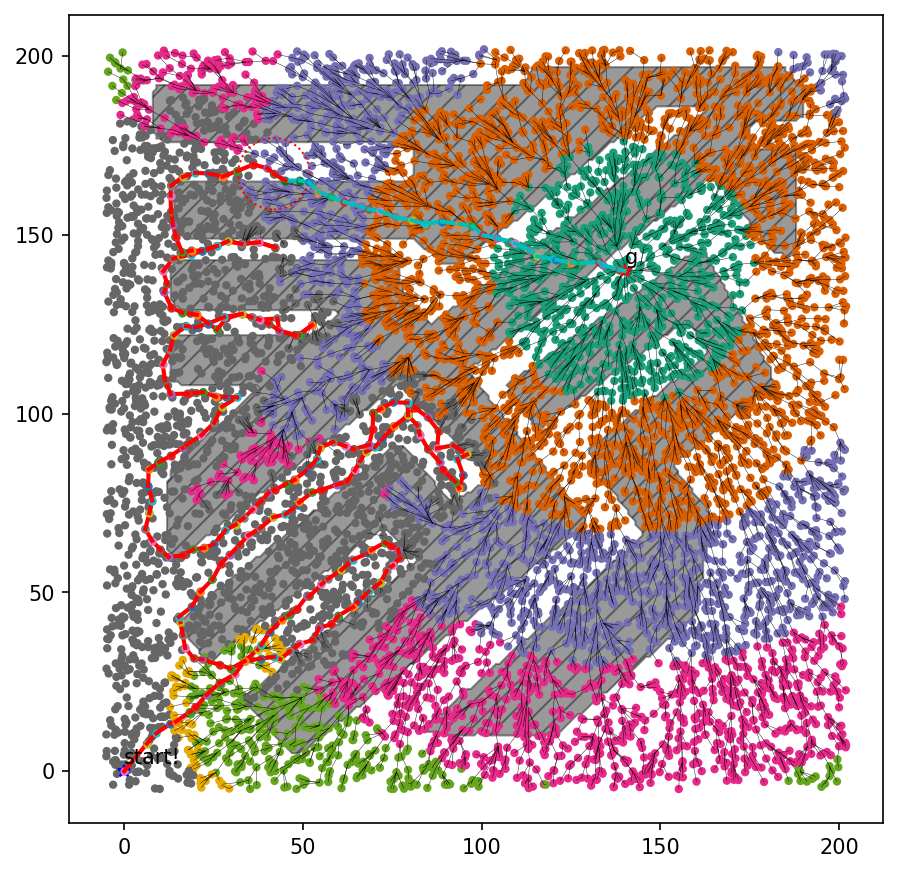
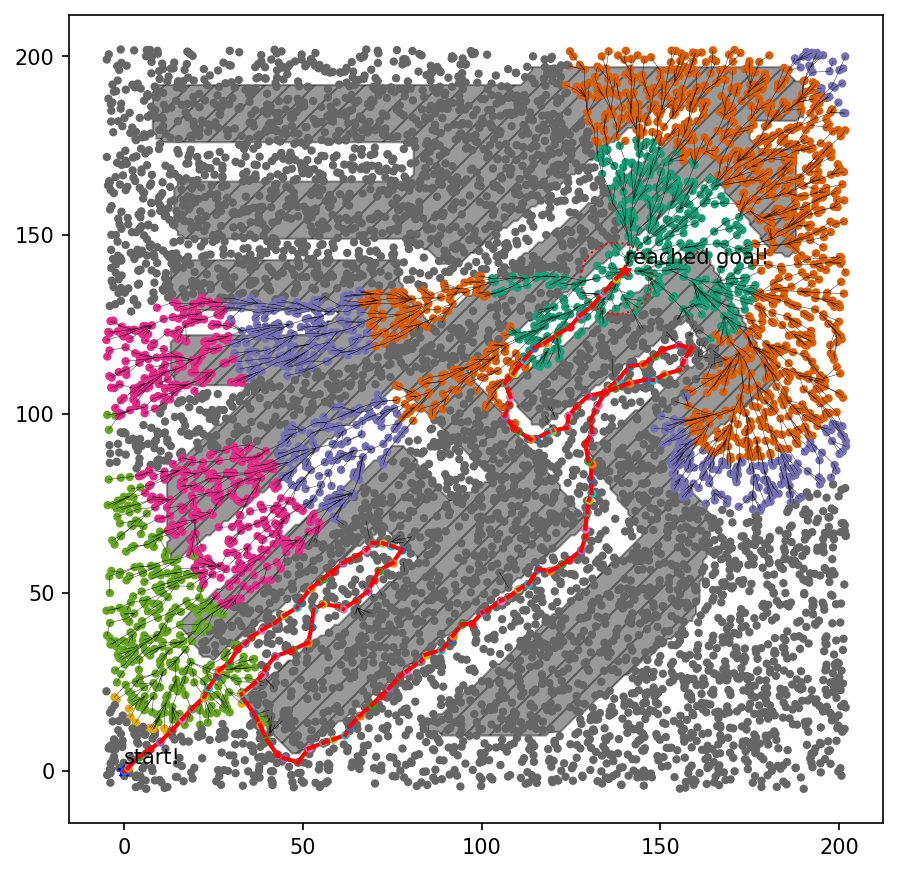
update results

diff --git a/Robot_run_experiment_OUR_ASTAR_RRT_backward.py b/Robot_run_experiment_OUR_ASTAR_RRT_backward.py
@@ -311,6 +311,8 @@ def robot_main(start=(0, 0), goal=(0, 1), map_name=None, world_name=None, num_it
         asp_path_cost = path_cost(robot.asp)
 
         if len(robot.skeleton_path) > 2:
+            if case_count > 10:
+            	break
             (Astar_path, Astar_path_cost, Astar_time), (RRTstar_path, RRTstar_path_cost, RRTstar_time) = \
                 compare_Astar_RRTstar(robot=robot, plotter=plotter, obstacles=obstacles,
                                       save_image=save_image, case_count=case_count,
@@ -431,7 +433,7 @@ if __name__ == '__main__':
     obstacles_check = Obstacles()
     obstacles_check.read(map_name=map_name)
     obstacles_check.line_segments()
-    num_iter = 50
+    num_iter = 100
     for i in range(istart, iend, step):
         for j in range(jstart, jend, step):
             goal = i, j

diff --git a/Robot_run_experiment_OUR_RRTX.py b/Robot_run_experiment_OUR_RRTX.py
@@ -80,8 +80,8 @@ if __name__ == '__main__':
     elif map_case == 2:
         map_name = '_map_bugtrap.csv' # 200x200 size
         node_density = 5
-        istart, iend = 80, 81
-        jstart, jend = 120, 200
+        istart, iend = 160, 200
+        jstart, jend = 20, 200
         # 80 100 already
         step = 20
     elif map_case == 3:
